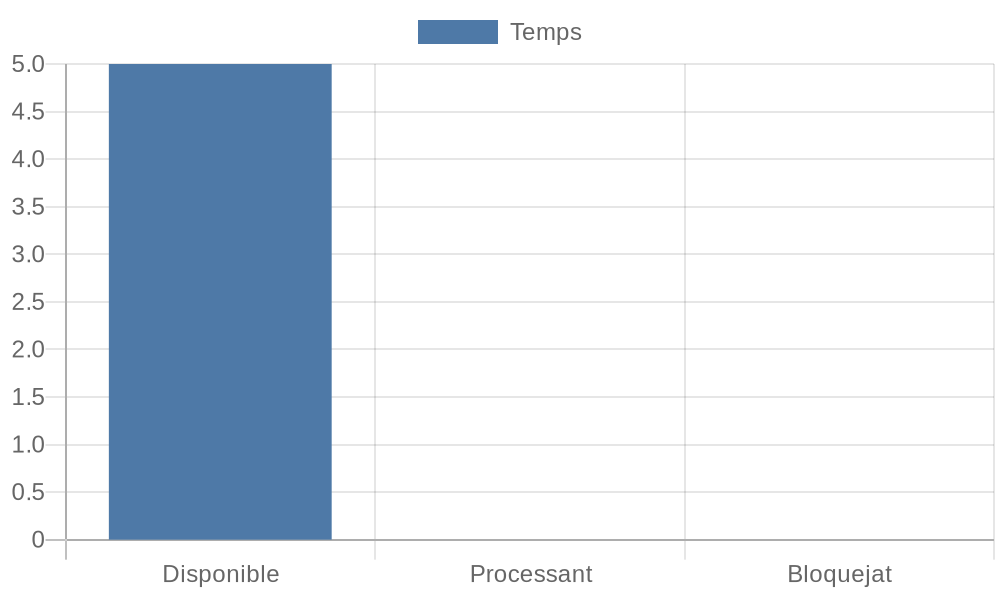
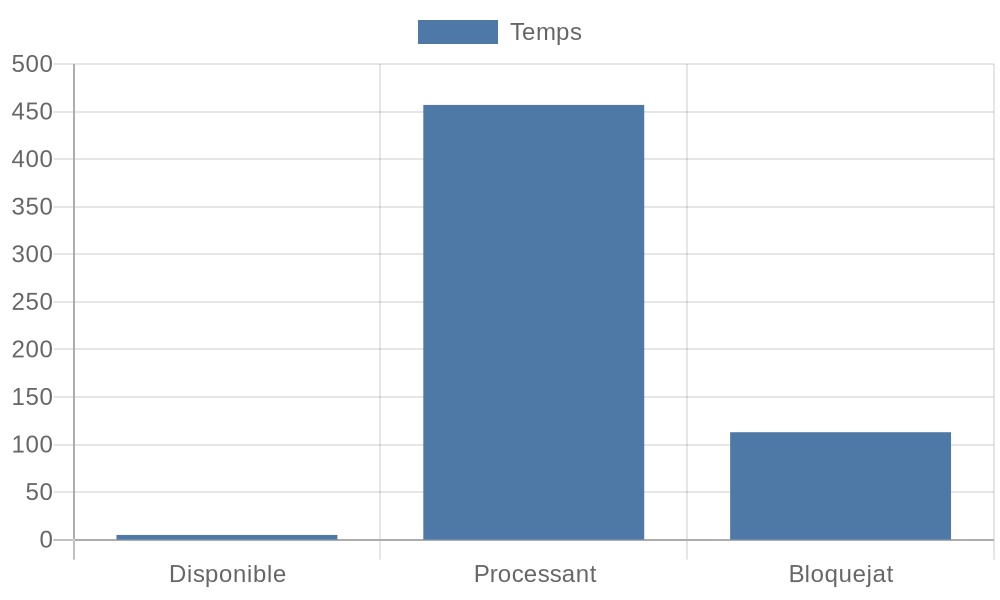
Afegeix els estadistics de la cua en pantalla

diff --git a/Assets/Scripts/Objectes/ProcessadorScript.cs b/Assets/Scripts/Objectes/ProcessadorScript.cs
@@ -15,6 +15,7 @@ public class ProcessadorScript : LlibreriaObjectes, ITractarEsdeveniment
     private List<GameObject> entitatsProcessant;
     //Variables per als estadistics
     private int nEntitatsEnviades = 0;
+    private int nEntitatsTractades = 0;
     private double tempsMigEntitatsProcessador;
     private enum estats { DISPONIBLE, PROCESSANT, BLOQUEJAT };
     private estats estat;
@@ -70,6 +71,7 @@ public class ProcessadorScript : LlibreriaObjectes, ITractarEsdeveniment
         tempsProcessat = 0;
         tempsBloquejat = 0;
         ultimTemps = 0;
+        nEntitatsTractades = 0;
         string capacitat;
         if (maxEntitatsParalel == -1) capacitat = "∞";
         else capacitat = maxEntitatsParalel.ToString();
@@ -199,6 +201,7 @@ public class ProcessadorScript : LlibreriaObjectes, ITractarEsdeveniment
         tempsProcessat = 0;
         tempsBloquejat = 0;
         ultimTemps = 0;
+        nEntitatsTractades = 0;
         string capacitat;
         if (maxEntitatsParalel == -1) capacitat = "∞";
         else capacitat = maxEntitatsParalel.ToString();
@@ -229,6 +232,7 @@ public class ProcessadorScript : LlibreriaObjectes, ITractarEsdeveniment
                     tempsProcessat += (e.temps-ultimTemps);
                     ultimTemps = e.temps;
                     GameObject entitat = e.ObteEntitatImplicada();
+                    ++nEntitatsTractades;
                     entitatsProcessant.Remove(entitat);
                     int nDisponible = CercaDisponible();
                     if (nDisponible != -1) {
@@ -256,6 +260,7 @@ public class ProcessadorScript : LlibreriaObjectes, ITractarEsdeveniment
                     tempsBloquejat += (e.temps-ultimTemps);
                     ultimTemps = e.temps;
                     GameObject entitat = e.ObteEntitatImplicada();
+                    ++nEntitatsTractades;
                     entitatsProcessant.Remove(entitat);
                     if (entitatsAEnviar.Count > 0){
                         entitatsAEnviar.Enqueue(entitat);
@@ -314,7 +319,36 @@ public class ProcessadorScript : LlibreriaObjectes, ITractarEsdeveniment
         nomImatge = "Output"+gameObject.transform.name;
         eC.GeneraEstadistic(0, nEntitatsEstadistic, etiquetes, "Sortides",nomImatge);
     }
-    public override void ActualizaEstadistics(){}
+    public override void ActualizaEstadistics(){
+        string estadistics = "Output: " + nEntitatsEnviades +"\n";
+        float tempsActual = (transform.parent.GetComponent<MotorSimuladorScript>().ObteTempsActual());
+        etiquetes.text = entitatsProcessant.Count.ToString();
+        if (maxEntitatsParalel == -1) etiquetes.text += "/∞";
+        else etiquetes.text += "/" + maxEntitatsParalel;
+        etiquetes.text += "\n" + transform.name + "\n";
+
+        if (estat == estats.DISPONIBLE){
+            tempsDisponible += (tempsActual - ultimTemps); 
+        } 
+        else if (estat == estats.PROCESSANT){
+            tempsProcessat += (tempsActual - ultimTemps);
+        }
+        else {
+            tempsBloquejat += (tempsActual - ultimTemps);
+        }
+        ultimTemps = tempsActual;
+        float percDisponible = 100*(tempsDisponible/(tempsActual));
+        float percProcessant = 100*(tempsProcessat/(tempsActual));
+        float percBloquejat = 100*(tempsBloquejat/(tempsActual));
+        if (nEntitatsEnviades != 0) estadistics += "Temps mig processat: " + (tempsMigEntitatsProcessador/(entitatsProcessant.Count + nEntitatsTractades)) +"\n";
+        estadistics += "% Disponible: " + percDisponible + "\n";
+        estadistics += "% Processant: " + percProcessant + "\n";
+        estadistics += "% Bloquejat: " + percBloquejat + "\n";
+
+        
+        etiquetes.text += estadistics; 
+
+    }
 
     //////////////////////////////////////////////////////////////////////
     //                                                                  //

diff --git a/Assets/Scripts/Objectes/CuaScript.cs b/Assets/Scripts/Objectes/CuaScript.cs
@@ -222,6 +222,7 @@ public class CuaScript : LlibreriaObjectes
         tempsPle = 0;
         ultimTemps = 0;
         entitatsEnviades = 0;
+        tempsTotalEntitatsEnviades = 0;
         string capacitat;
         if (capacitatMaxima == -1) capacitat = "∞";
         else capacitat = capacitatMaxima.ToString();
